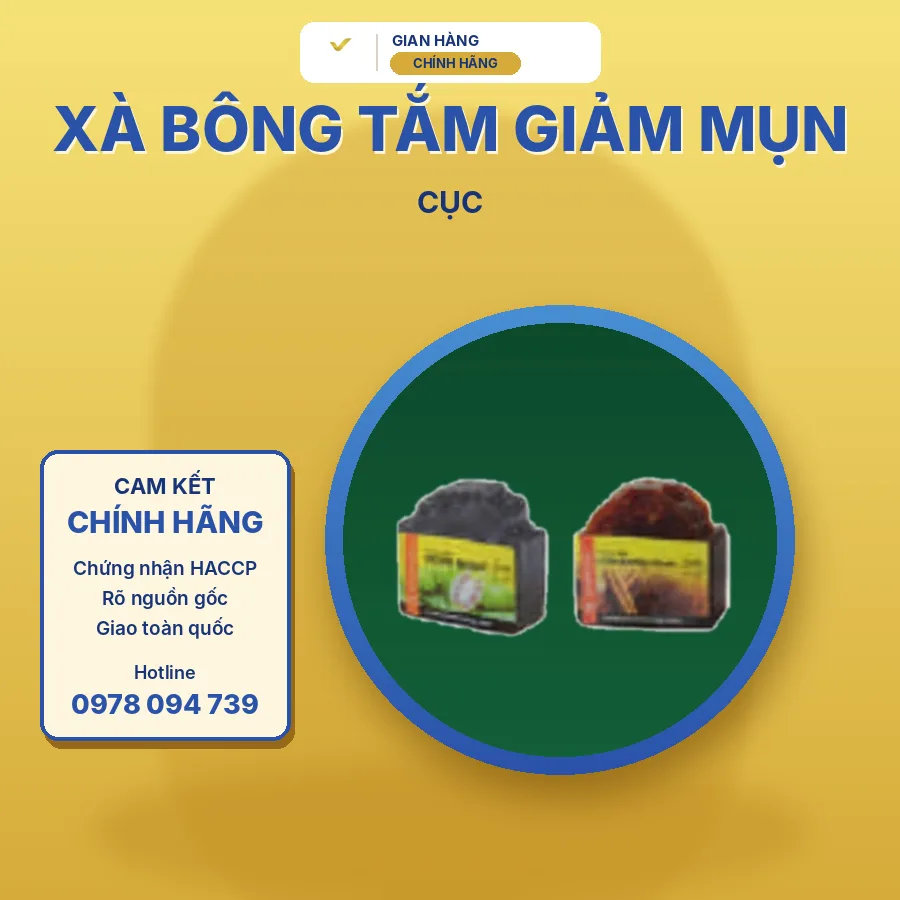
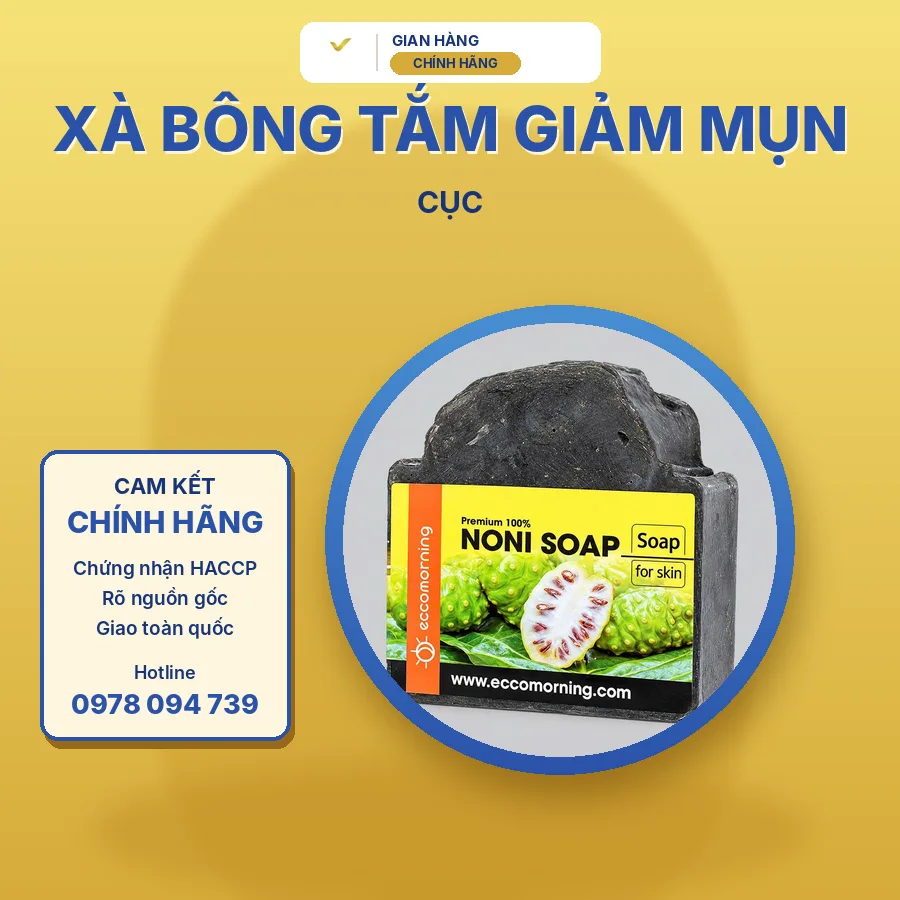
Thay ảnh rõ nét cho dầu gội trái nhàu, xà bông giảm mụn, nước rửa tay
Claude-Session: https://claude.ai/code/session_01DQj8G6CGLo91ChK76bQ5ip

Changed region(s): [[0.3733, 0.3422, 0.8711, 0.84]]

diff --git a/index.html b/index.html
@@ -722,9 +722,9 @@ const IMG = {
   240: ["khung/240.jpg", "that/tbeauty-tinh-chat-duong-toc-k-ginseng.jpg"],
   241: ["khung/241.jpg", "that/tbeauty-kem-u-toc-k-ginseng.jpg"],
   242: ["khung/242.jpg", "that/tbeauty-mat-na-queen-xanh.jpg", "that/tbeauty-mat-na-queen-nau.jpg", "that/tbeauty-mat-na-queen-hong.jpg", "that/tbeauty-mat-na-queen-xanh-hop.jpg", "that/tbeauty-mat-na-queen-nau-hop.jpg", "that/tbeauty-mat-na-queen-hong-hop.jpg", "that/tbeauty-mat-na-queen-xanh-hop-2.jpg", "that/tbeauty-mat-na-queen-nau-hop-2.jpg", "that/tbeauty-mat-na-queen-hong-hop-2.jpg"],
-  243: ["khung/243.jpg", "catalog/dau-goi-trai-nhau.jpg"],
-  244: ["khung/244.jpg", "catalog/xa-bong-giam-mun.jpg"],
-  245: ["khung/245.jpg", "catalog/nuoc-rua-tay-kho.jpg"],
+  243: ["khung/243.jpg", "that/dau-goi-trai-nhau-noni.jpg"],
+  244: ["khung/244.jpg", "that/xa-bong-tri-nhau-noni.jpg", "that/xa-bong-que-cinnamon.jpg", "that/xa-bong-chum-ngay-moringa.jpg"],
+  245: ["khung/245.jpg", "that/nuoc-rua-tay-hand-wash.jpg"],
   246: ["khung/246.jpg", "catalog/combo-3-xa-bong.jpg"],
 };
 const SETS = [
@@ -740,7 +740,7 @@ const SETS = [
 const HET_HANG = [];
 const DIR = "images/san-pham/";
 // Đổi số phiên bản khi thay ảnh catalog để trình duyệt tải ảnh mới thay vì ảnh cũ đã lưu.
-const IMG_V = "?v=25";
+const IMG_V = "?v=26";
 // Ảnh hiển thị dùng bản WebP (nhẹ hơn ~40%); bản .jpg gốc giữ lại cho dữ liệu SEO và chia sẻ.
 const webp = f => f.replace(/\.jpg$/, ".webp");
 const full = f => DIR + webp(f) + (/^(catalog|that|khung|tet)\//.test(f) ? IMG_V : "");
